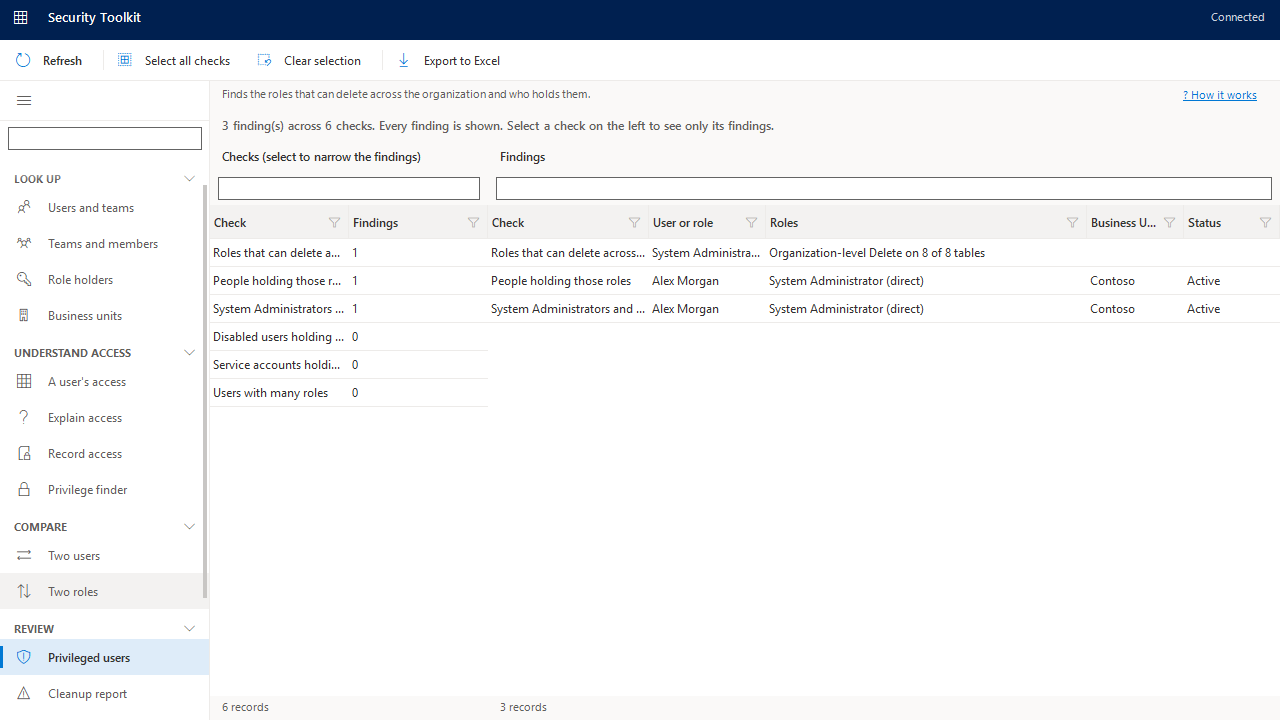
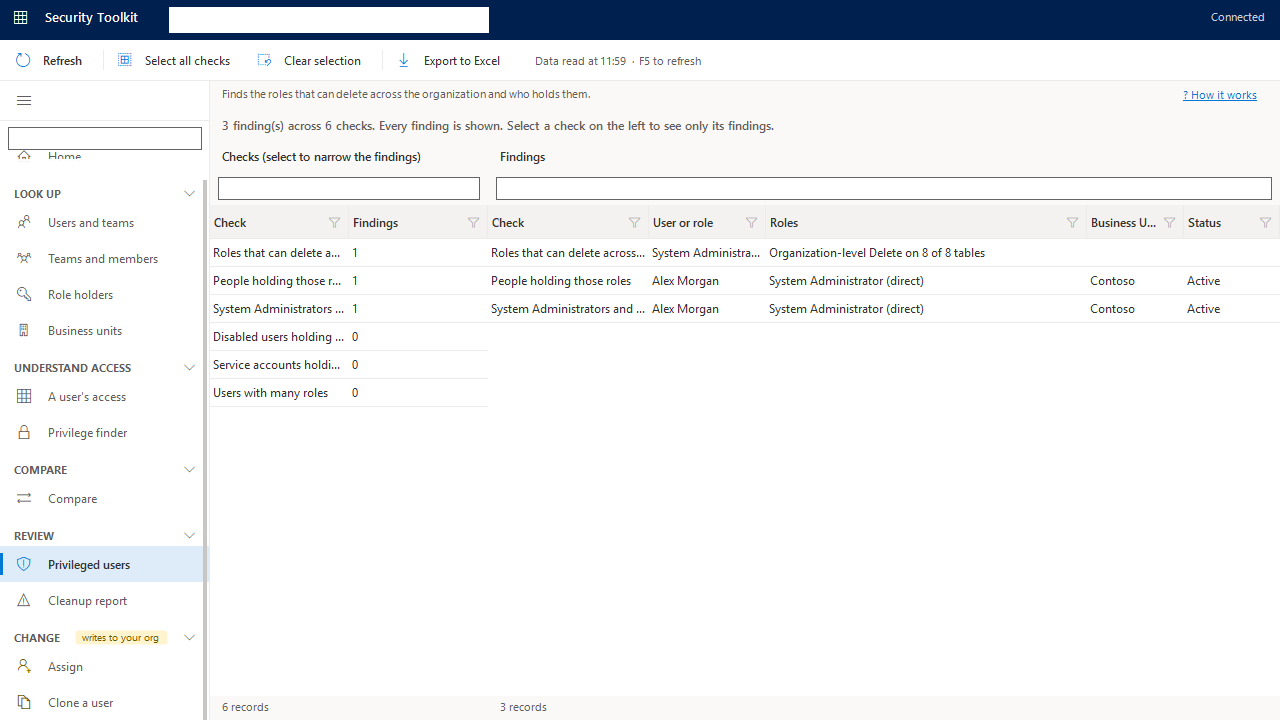
Docs: Home, exports, README and screenshots follow the new menu
- Tab screens are titled with their question; Home cards link to the menu entry they open; exports name the screen as 'Menu › Question'.
- Screenshots regenerated from the demo organization.
- Roadmap: item 15 built; the menu now has 11 entries.

Changed region(s): [[0.0, 0.2139, 0.1875, 1.0], [0.0312, 0.0, 0.4062, 0.0611], [0.4062, 0.0611, 0.5625, 0.0917]]

diff --git a/SecurityToolkit/Features/RecordAccessFeature.cs b/SecurityToolkit/Features/RecordAccessFeature.cs
@@ -38,7 +38,7 @@ namespace SecurityToolkit.Features
     internal sealed class RecordAccessFeature : IFeature
     {
         public string Id => "record-access";
-        public string Title => "Record access";
+        public string Title => "Can they open this record?";
         public string Glyph => Glyphs.RecordAccess;
         public FeatureGroup Group => FeatureGroup.UnderstandAccess;
         public int Order => 25;
@@ -209,7 +209,7 @@ namespace SecurityToolkit.Features
                 yield return CommandSeparator();
                 yield return Command(Theme.GlyphClearSelection, "Clear selection", Master.ClearSelection);
                 yield return Command(Theme.GlyphDownload, "Export to Excel", () => ExportUi.SaveGrid(this, _tabs.SelectedIndex == 0 ? Grid : _sharesGrid,
-                    _tabs.SelectedIndex == 0 ? "RecordAccess.xlsx" : "RecordSharing.xlsx", _tabs.SelectedIndex == 0 ? "Record access" : "Shared with"));
+                    _tabs.SelectedIndex == 0 ? "RecordAccess.xlsx" : "RecordSharing.xlsx", _tabs.SelectedIndex == 0 ? "Access to the record" : "Shared with"));
                 yield return new Label { Text = "Check access for", AutoSize = true, ForeColor = Theme.TextSecondary, Margin = new Padding(14, 12, 4, 0) };
                 _cmbPrincipal = new ComboBox { DropDownStyle = ComboBoxStyle.DropDownList, Width = 90, Margin = new Padding(0, 8, 8, 0), Font = Theme.FontRegular, Name = "PrincipalType" };
                 _cmbPrincipal.Items.AddRange(new object[] { "a user", "a team" });

diff --git a/SecurityToolkit.Tests/WorkspaceTests.cs b/SecurityToolkit.Tests/WorkspaceTests.cs
@@ -325,3 +325,34 @@ namespace SecurityToolkit.Tests
         }
     }
 }
+
+namespace SecurityToolkit.Tests
+{
+    public class ScreenNameTests
+    {
+        [Fact]
+        public void ATab_IsNamedByItsMenuEntryAndItsQuestion()
+        {
+            Assert.Equal("A user's access › Why do they have access?", FeatureRegistry.ScreenName("explain-access"));
+            Assert.Equal("Compare › How do two roles differ?", FeatureRegistry.ScreenName("compare-roles"));
+            Assert.Equal("Assign › Which teams should these users be in?", FeatureRegistry.ScreenName("assign-team-membership"));
+            Assert.Equal("Privilege finder", FeatureRegistry.ScreenName("privilege-finder"));
+            Assert.Null(FeatureRegistry.ScreenName("nope"));
+        }
+
+        [Fact]
+        public void EveryTab_IsTitledWithTheQuestionOnItsCard()
+        {
+            foreach (var workspace in FeatureRegistry.CreateAll().OfType<IWorkspaceFeature>())
+            {
+                var view = (WorkspaceView)null;
+                Sta.Run(() =>
+                {
+                    view = (WorkspaceView)workspace.CreateView(new TestHost());
+                    Assert.Equal(workspace.Parts.Select(p => p.Title), view.Tabs.Select(t => t.Question));
+                    view.Dispose();
+                });
+            }
+        }
+    }
+}

diff --git a/SecurityToolkit/Features/AssignmentFeatures.cs b/SecurityToolkit/Features/AssignmentFeatures.cs
@@ -12,7 +12,7 @@ namespace SecurityToolkit.Features
     internal sealed class UserRolesFeature : IFeature
     {
         public string Id => "assign-user-roles";
-        public string Title => "Roles for users";
+        public string Title => "Which roles should these users have?";
         public string Glyph => Glyphs.AddPerson;
         public FeatureGroup Group => FeatureGroup.Change;
         public int Order => 10;
@@ -73,7 +73,7 @@ namespace SecurityToolkit.Features
     internal sealed class TeamRolesFeature : IFeature
     {
         public string Id => "assign-team-roles";
-        public string Title => "Roles for teams";
+        public string Title => "Which roles should these teams have?";
         public string Glyph => Glyphs.TeamShield;
         public FeatureGroup Group => FeatureGroup.Change;
         public int Order => 20;
@@ -125,7 +125,7 @@ namespace SecurityToolkit.Features
     internal sealed class TeamMembershipFeature : IFeature
     {
         public string Id => "assign-team-membership";
-        public string Title => "Team membership";
+        public string Title => "Which teams should these users be in?";
         public string Glyph => Glyphs.Swap;
         public FeatureGroup Group => FeatureGroup.Change;
         public int Order => 30;

diff --git a/SecurityToolkit.Tests/GuidanceTests.cs b/SecurityToolkit.Tests/GuidanceTests.cs
@@ -215,6 +215,23 @@ namespace SecurityToolkit.Tests
         }
 
         [Fact]
+        public void EveryCard_NamesAnEntryOfTheMenu_NotARemovedScreen()
+        {
+            WithHome((view, host) =>
+            {
+                var menu = FeatureRegistry.CreateAll().Select(f => f.Title).ToList();
+                foreach (var card in Cards(view))
+                {
+                    var link = (string)card.GetType().GetField("_screen", System.Reflection.BindingFlags.NonPublic | System.Reflection.BindingFlags.Instance).GetValue(card);
+                    Assert.True(menu.Contains(link), card.Tag + " links to \"" + link + "\", which is not in the menu");
+                }
+
+                var whyCard = Cards(view).Single(c => (string)c.Tag == "explain-access");
+                Assert.Equal("A user's access", whyCard.GetType().GetField("_screen", System.Reflection.BindingFlags.NonPublic | System.Reflection.BindingFlags.Instance).GetValue(whyCard));
+            });
+        }
+
+        [Fact]
         public void TheCardsAreGroupedUnderHeadings_AndTheChangeGroupSaysItIsReviewed()
         {
             WithHome((view, host) =>

diff --git a/SecurityToolkit.Tests/Screenshots.cs b/SecurityToolkit.Tests/Screenshots.cs
@@ -443,9 +443,11 @@ namespace SecurityToolkit.Tests
                 form.ClientSize = new Size(1600, 720);
                 Wait(300);
                 Open("user-access-matrix");
-                LoadedWithoutSelection("user-access-matrix");
+                // Same screen as the record check: the user picked there comes along, so the list is not empty here.
+                Until(() => Grids("user-access-matrix")[0].GetVisible<object>().Any());
                 MasterDetailHarness.Select<UserInfo>(Grids("user-access-matrix")[0], u => u.FullName == "Chen Wei");
-                Until(() => Grids("user-access-matrix")[1].GetVisible<MatrixRow>().Any());
+                Until(() => Grids("user-access-matrix")[1].GetVisible<MatrixRow>().Any(r => true) && Grids("user-access-matrix")[0].GetSelected<UserInfo>().Any(u => u.FullName == "Chen Wei"));
+                Wait(500);
                 Capture("user-access-matrix");
                 form.ClientSize = WindowSize;
                 Wait(300);

diff --git a/SecurityToolkit/Features/UserAccessMatrixFeature.cs b/SecurityToolkit/Features/UserAccessMatrixFeature.cs
@@ -12,12 +12,12 @@ namespace SecurityToolkit.Features
     /// <summary>
     /// "What can this user do?" Pick a user on the left; the right is a grid of every table against the eight
     /// privileges, each cell showing how far the user's roles (direct and through teams) reach, shaded by reach.
-    /// The reverse of Explain access, which starts from one privilege and lists the routes to it.
+    /// The reverse of the "Why do they have access?" tab, which starts from one privilege and lists the routes to it.
     /// </summary>
     internal sealed class UserAccessMatrixFeature : IFeature
     {
         public string Id => "user-access-matrix";
-        public string Title => "A user's access";
+        public string Title => "What can they do?";
         public string Glyph => Glyphs.Grid;
         public FeatureGroup Group => FeatureGroup.UnderstandAccess;
         public int Order => 10;

diff --git a/SecurityToolkit/Features/FeatureFramework.cs b/SecurityToolkit/Features/FeatureFramework.cs
@@ -202,6 +202,22 @@ namespace SecurityToolkit.Features
             return workspace?.Id ?? id;
         }
 
+        /// <summary>
+        /// How a screen is named for the user: its menu entry, and for a tab the question it answers after it
+        /// ("A user's access › Why do they have access?"). Null for an unknown id.
+        /// </summary>
+        public static string ScreenName(string id)
+        {
+            var screen = Find(id);
+            if (screen == null)
+            {
+                return null;
+            }
+
+            var menuId = MenuIdOf(id);
+            return string.Equals(menuId, screen.Id, StringComparison.OrdinalIgnoreCase) ? screen.Title : Find(menuId).Title + " › " + screen.Title;
+        }
+
         /// <summary>Every menu entry and every tab of a workspace.</summary>
         public static IEnumerable<IFeature> Everything()
         {

diff --git a/SecurityToolkit/Features/HomeFeature.cs b/SecurityToolkit/Features/HomeFeature.cs
@@ -165,7 +165,9 @@ namespace SecurityToolkit.Features
                     var row = new FlowLayoutPanel { AutoSize = true, AutoSizeMode = AutoSizeMode.GrowAndShrink, Margin = new Padding(0), WrapContents = true };
                     foreach (var entry in entries)
                     {
-                        var card = new GuideCard(entry, known[entry.FeatureId].Title, known[entry.FeatureId].Glyph);
+                        // The link names the menu entry the card opens, so it matches what the menu shows.
+                        var menu = known[FeatureRegistry.MenuIdOf(entry.FeatureId)];
+                        var card = new GuideCard(entry, menu.Title, known[entry.FeatureId].Glyph);
                         var target = entry.FeatureId;
                         card.Click += (s, e) => Host.Navigate(target);
                         row.Controls.Add(card);

diff --git a/SecurityToolkit/Services/SecurityService.cs b/SecurityToolkit/Services/SecurityService.cs
@@ -429,7 +429,7 @@ namespace SecurityToolkit.Services
 
         /// <summary>
         /// How far each of the given role records grants <paramref name="kind"/> on <paramref name="table"/>, for the
-        /// ones that grant it at all. Reads only the privileges of those roles (the same data "What can a user do?"
+        /// ones that grant it at all. Reads only the privileges of those roles (the same data "What can they do?"
         /// uses), instead of every grant of the privilege in the whole organization.
         /// </summary>
         public IReadOnlyDictionary<Guid, PrivilegeDepth> GetRoleGrantsFor(IEnumerable<Guid> roleIds, string table, PrivilegeKind kind)

diff --git a/SecurityToolkit/UI/ExportUi.cs b/SecurityToolkit/UI/ExportUi.cs
@@ -71,7 +71,7 @@ namespace SecurityToolkit.UI
         internal static ExportInfo Describe(IWin32Window owner, string sheetName, string description, bool colourDepths)
         {
             var featureId = (owner as FeatureView)?.FeatureId;
-            var title = featureId == null ? null : FeatureRegistry.Find(featureId)?.Title;
+            var title = featureId == null ? null : FeatureRegistry.ScreenName(featureId);
             return new ExportInfo
             {
                 Title = string.IsNullOrEmpty(title) || string.Equals(title, sheetName, StringComparison.CurrentCultureIgnoreCase) ? sheetName : title + ": " + sheetName,

diff --git a/SecurityToolkit/Features/ExplainAccessFeature.cs b/SecurityToolkit/Features/ExplainAccessFeature.cs
@@ -18,7 +18,7 @@ namespace SecurityToolkit.Features
     internal sealed class ExplainAccessFeature : IFeature
     {
         public string Id => "explain-access";
-        public string Title => "Explain access";
+        public string Title => "Why do they have access?";
         public string Glyph => Glyphs.Help;
         public FeatureGroup Group => FeatureGroup.UnderstandAccess;
         public int Order => 20;

diff --git a/SecurityToolkit/Features/CompareRolesFeature.cs b/SecurityToolkit/Features/CompareRolesFeature.cs
@@ -15,7 +15,7 @@ namespace SecurityToolkit.Features
     internal sealed class CompareRolesFeature : IFeature
     {
         public string Id => "compare-roles";
-        public string Title => "Two roles";
+        public string Title => "How do two roles differ?";
         public string Glyph => Glyphs.CompareRoles;
         public FeatureGroup Group => FeatureGroup.Compare;
         public int Order => 20;
